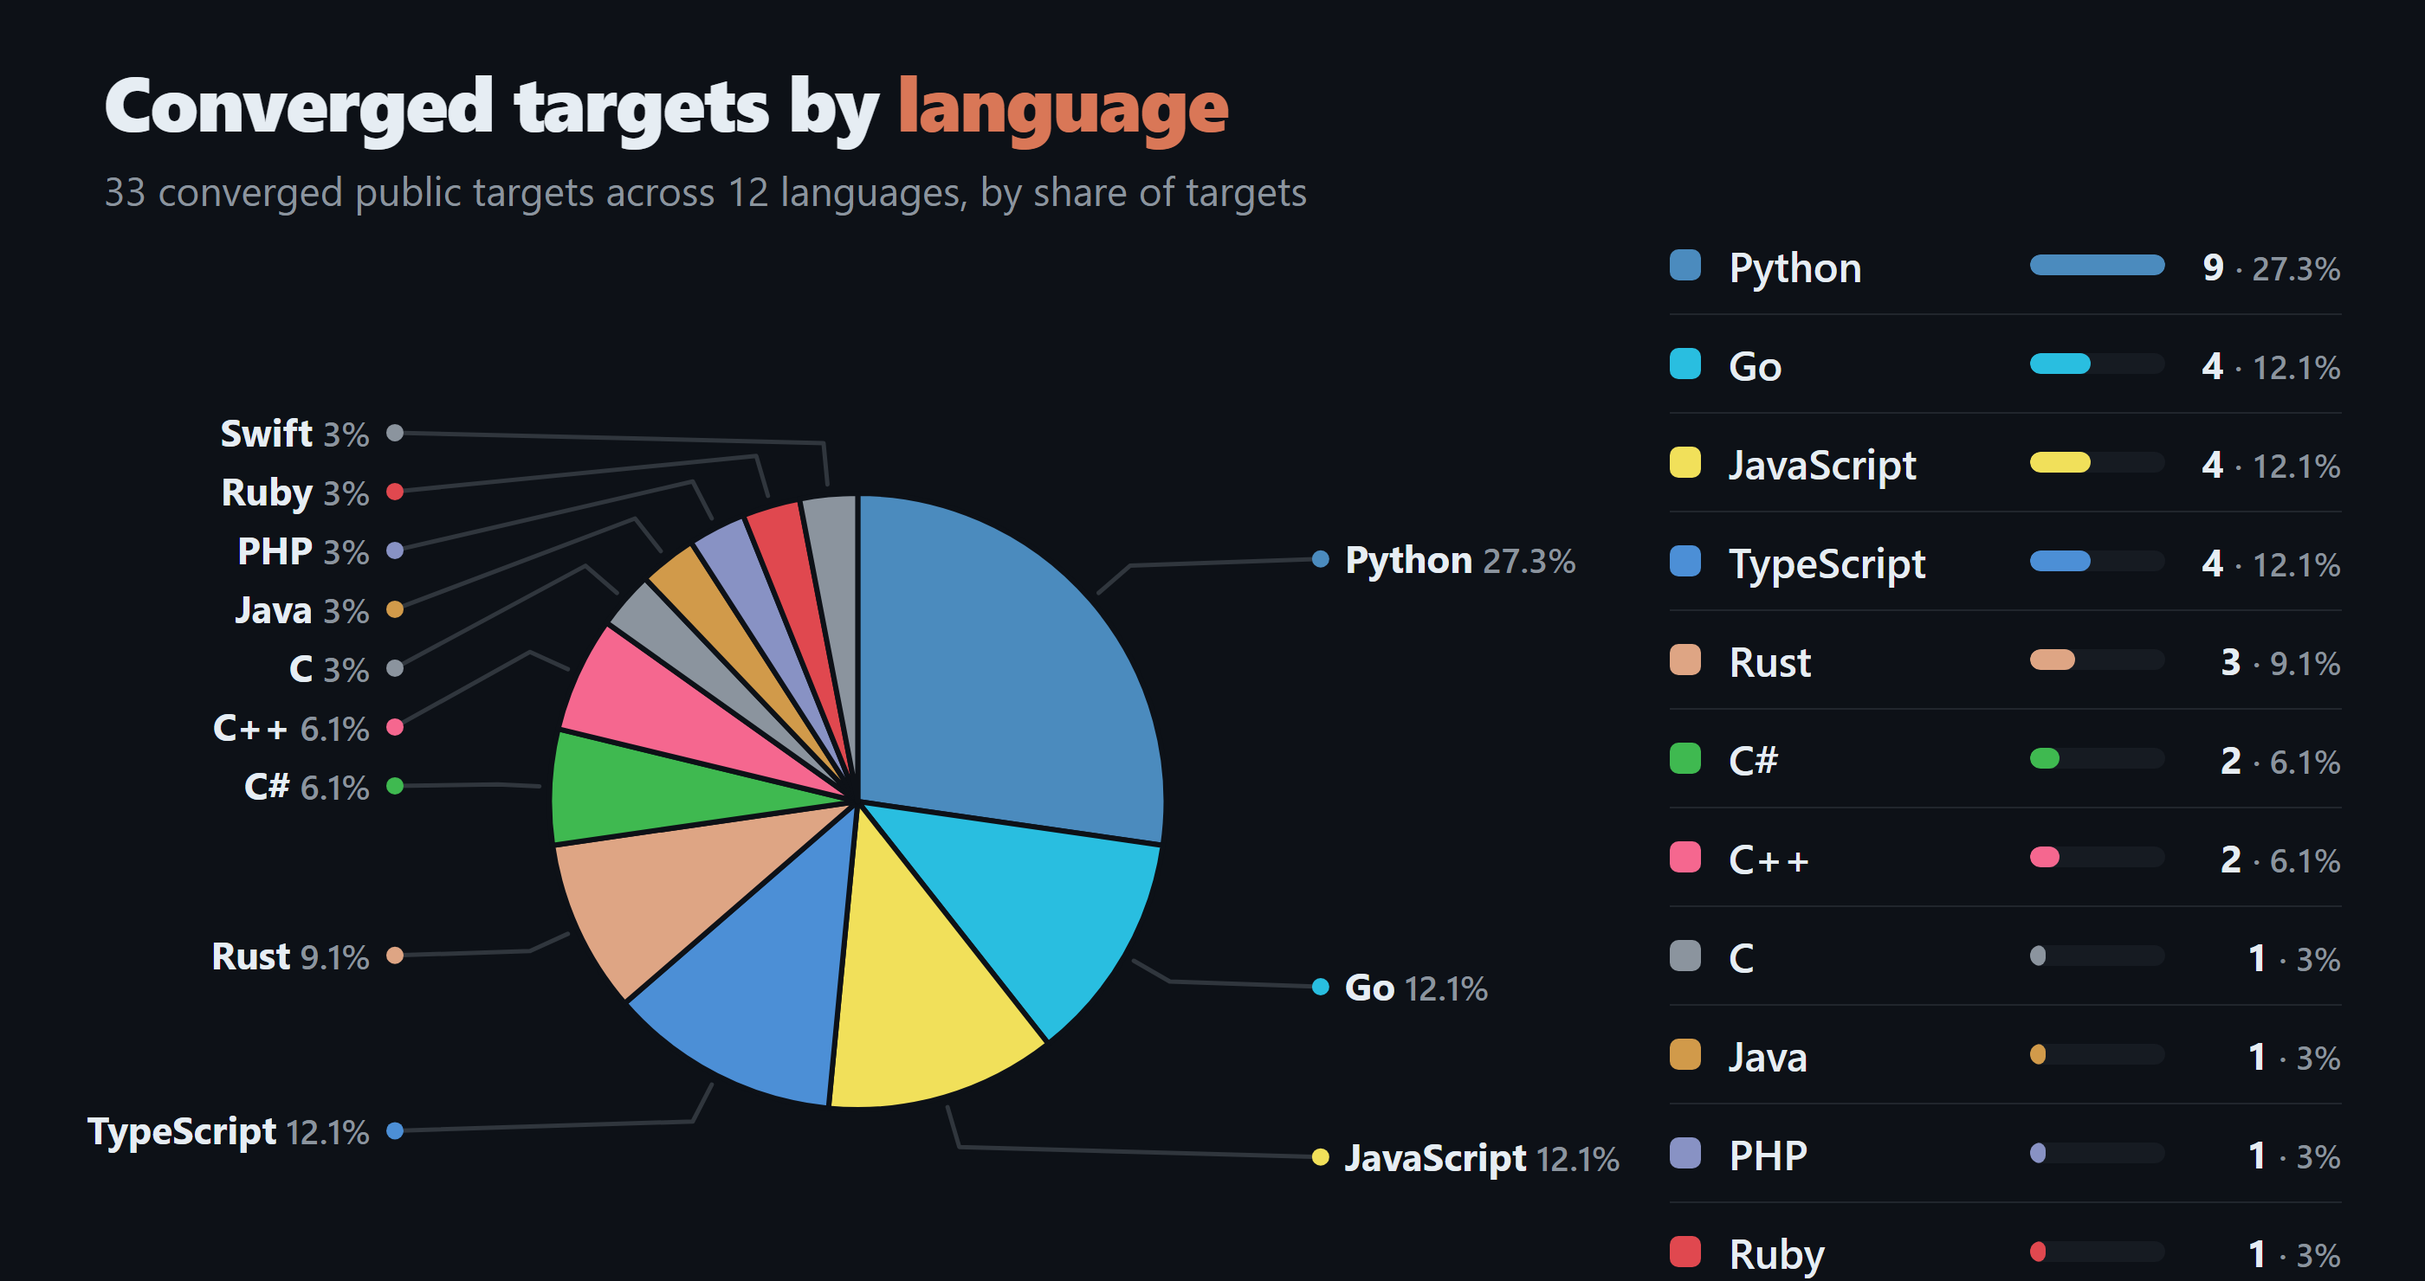
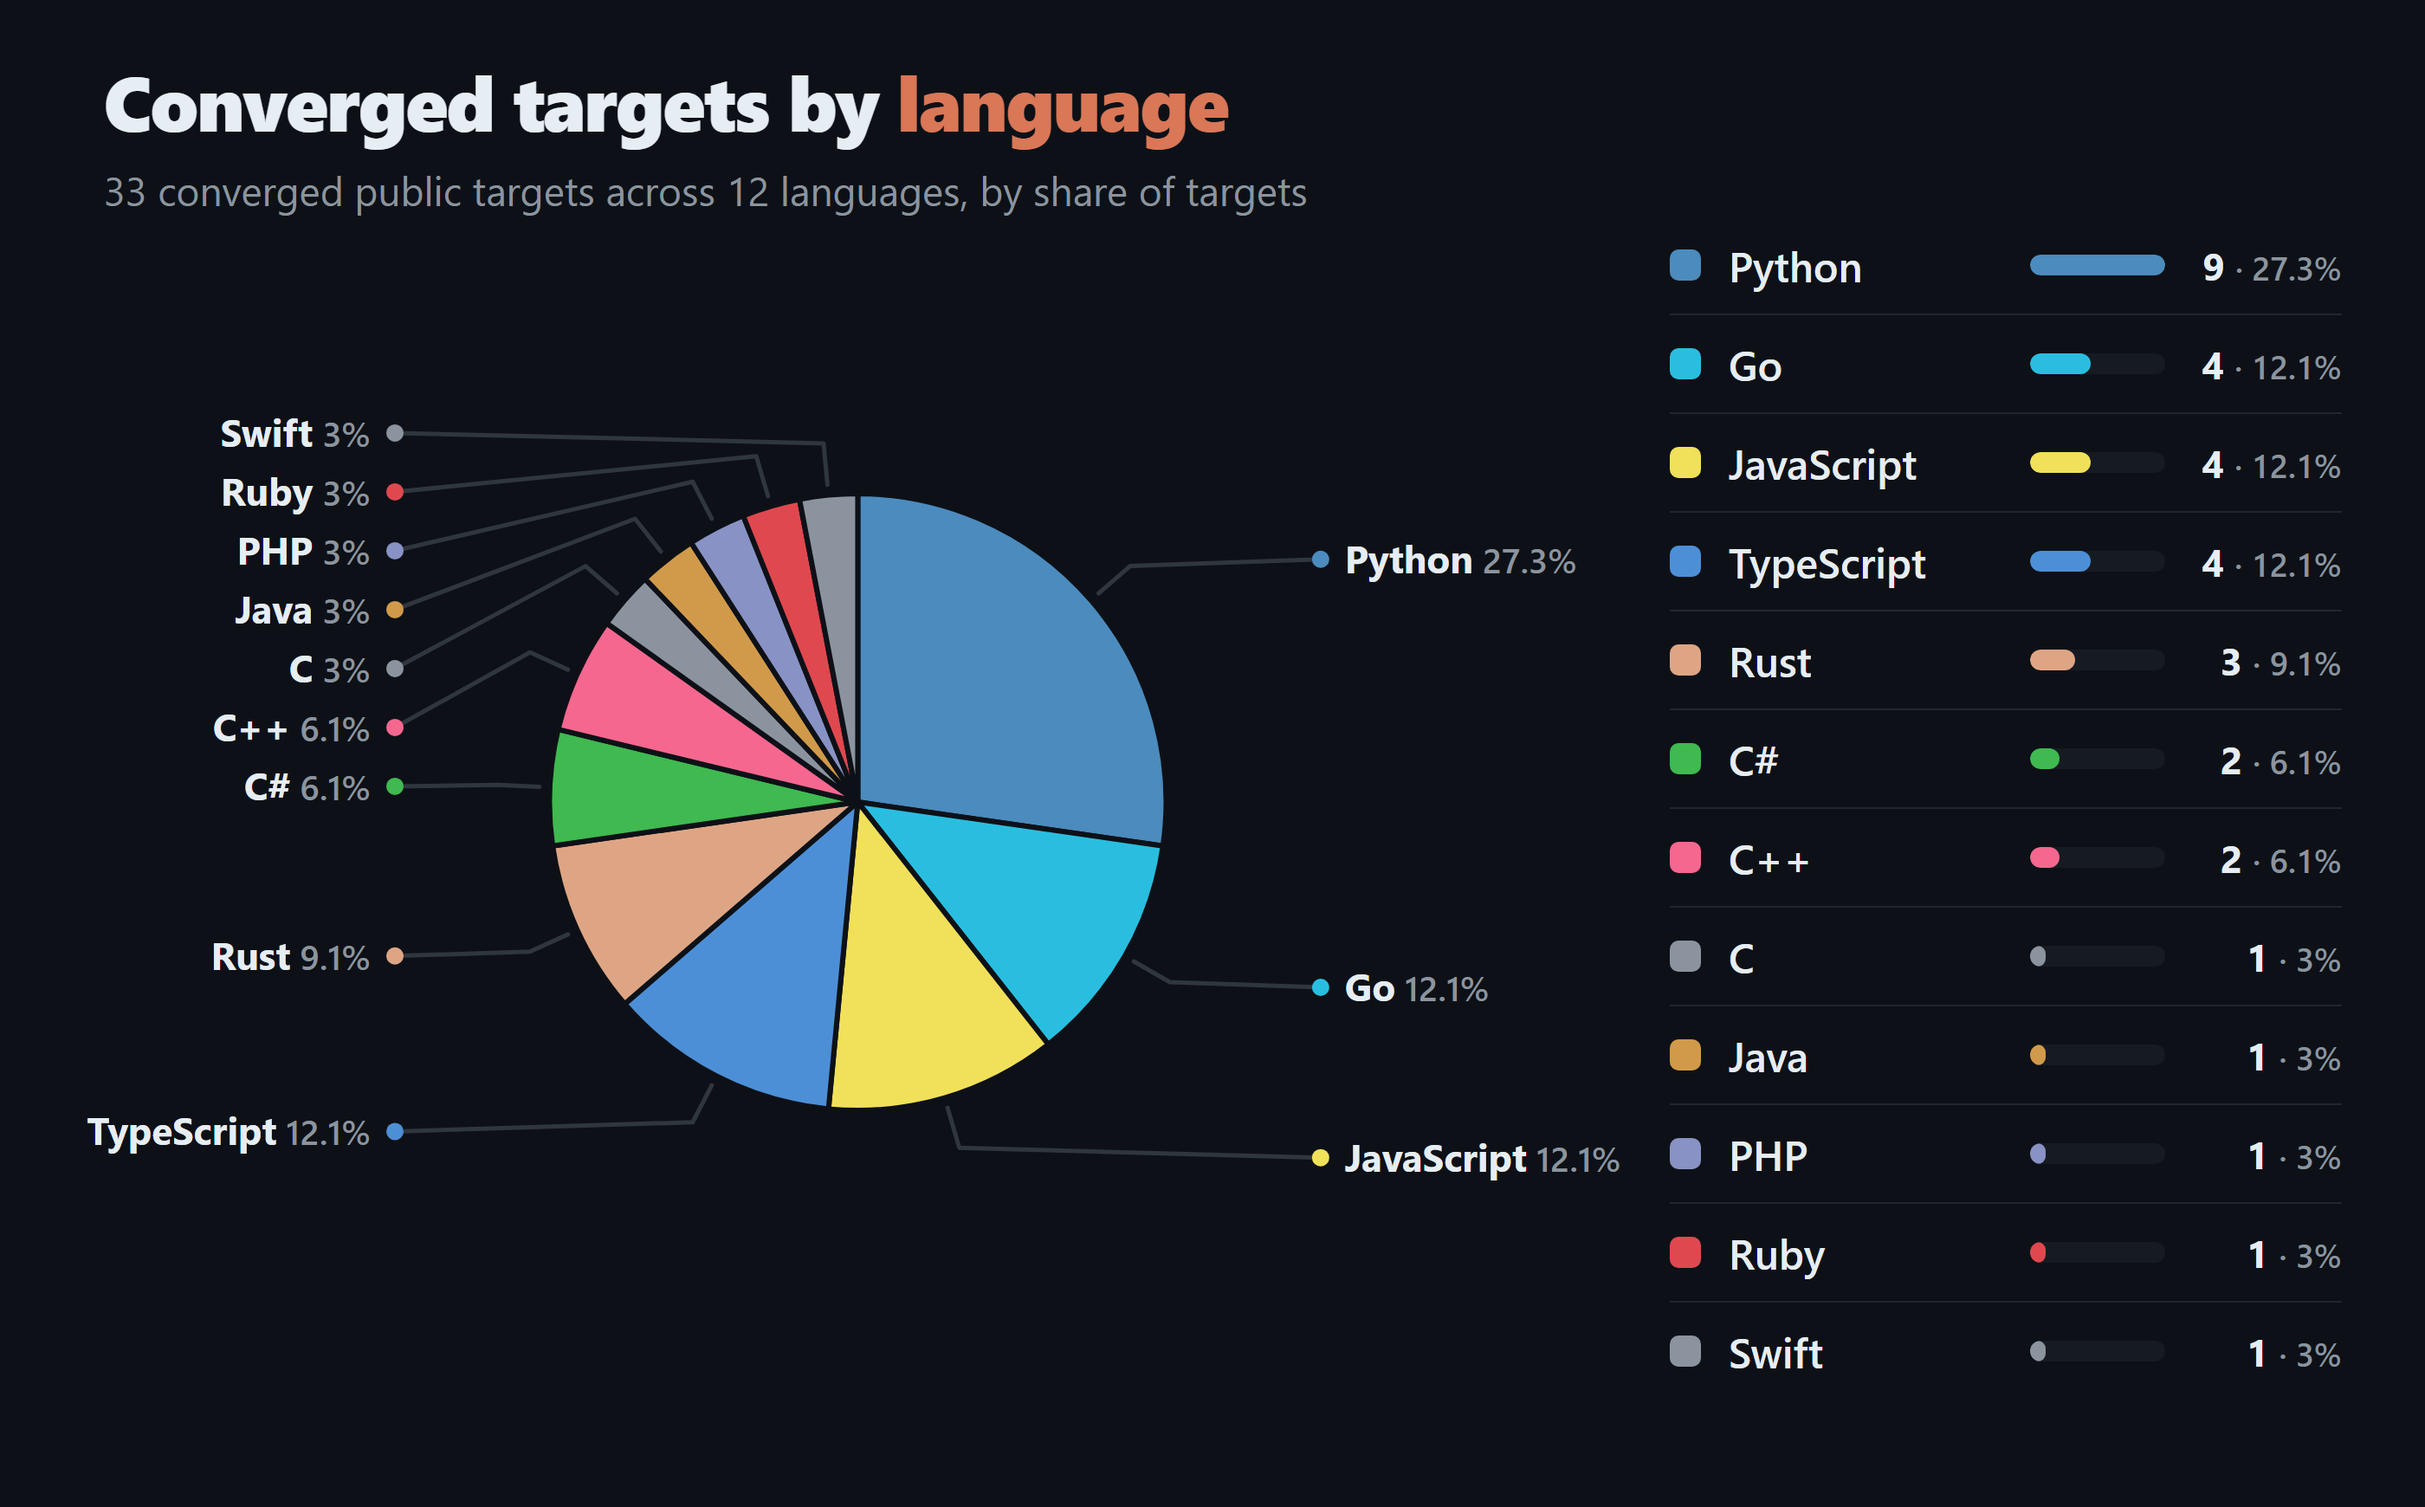
pie: stop clipping the twelfth legend row
The page was hard-coded to 740px and twelve legend rows need more, so the
last row - Swift, alphabetically last in the 1-target bucket - fell below
the canvas in every render since the corpus reached 12 languages. The pie's
own callout labels showed Swift while the legend summed to 32, and the
validator could not catch it because it derives the alt text, not the
pixels.

body height becomes min-height and the renderer screenshots full_page, so
the canvas now grows with the legend and a thirteenth language cannot clip
either. Both themes re-rendered and visually verified: 12 rows, counts sum
to 33.

Claude-Session: https://claude.ai/code/session_01W7xwEAcx4iFaNM6PbgcPGy

diff --git a/media/language-pie.html b/media/language-pie.html
@@ -25,7 +25,8 @@
   }
   * { margin: 0; padding: 0; box-sizing: border-box; }
   body {
-    width: 1400px; height: 740px; background: var(--bg); color: var(--fg);
+    width: 1400px; min-height: 740px; background: var(--bg); color: var(--fg);
+    padding-bottom: 36px;
     font-family: "Segoe UI", -apple-system, "Helvetica Neue", Arial, sans-serif;
     display: flex; flex-direction: column;
   }

diff --git a/scripts/render-language-pie.py b/scripts/render-language-pie.py
@@ -60,7 +60,7 @@ with sync_playwright() as p:
         page.goto(f"{src}?theme={theme}&data={payload}")
         page.wait_for_timeout(300)
         out = root / "media" / f"language-pie-{theme}.png"
-        page.screenshot(path=str(out))
+        page.screenshot(path=str(out), full_page=True)
         print(f"wrote {out}")
         page.close()
     browser.close()
